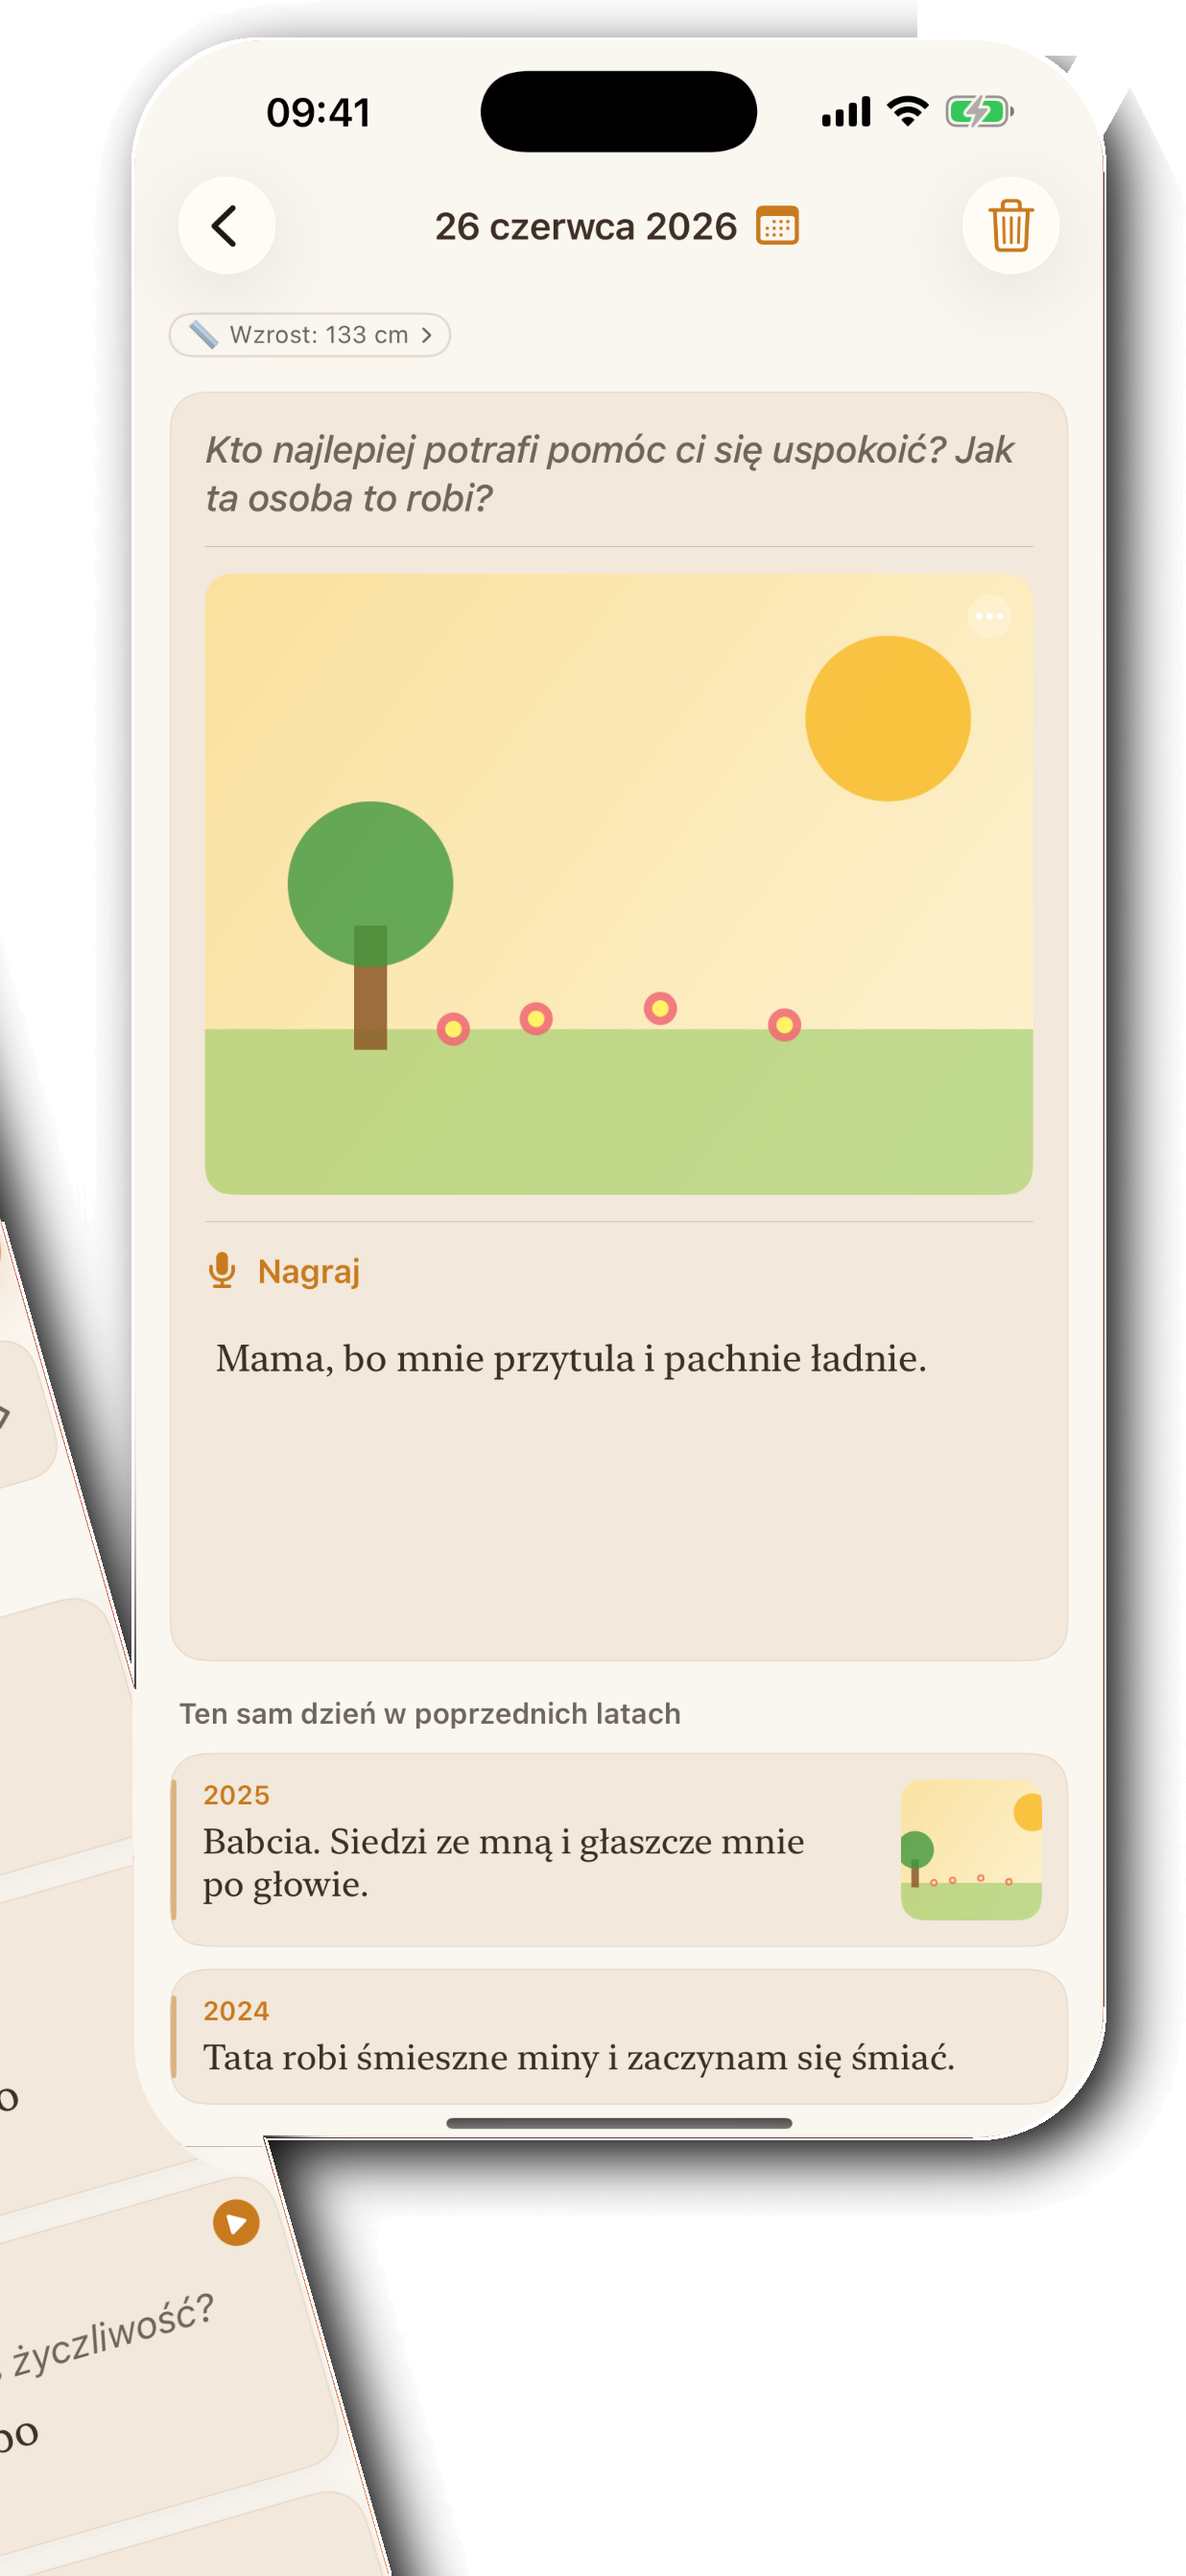
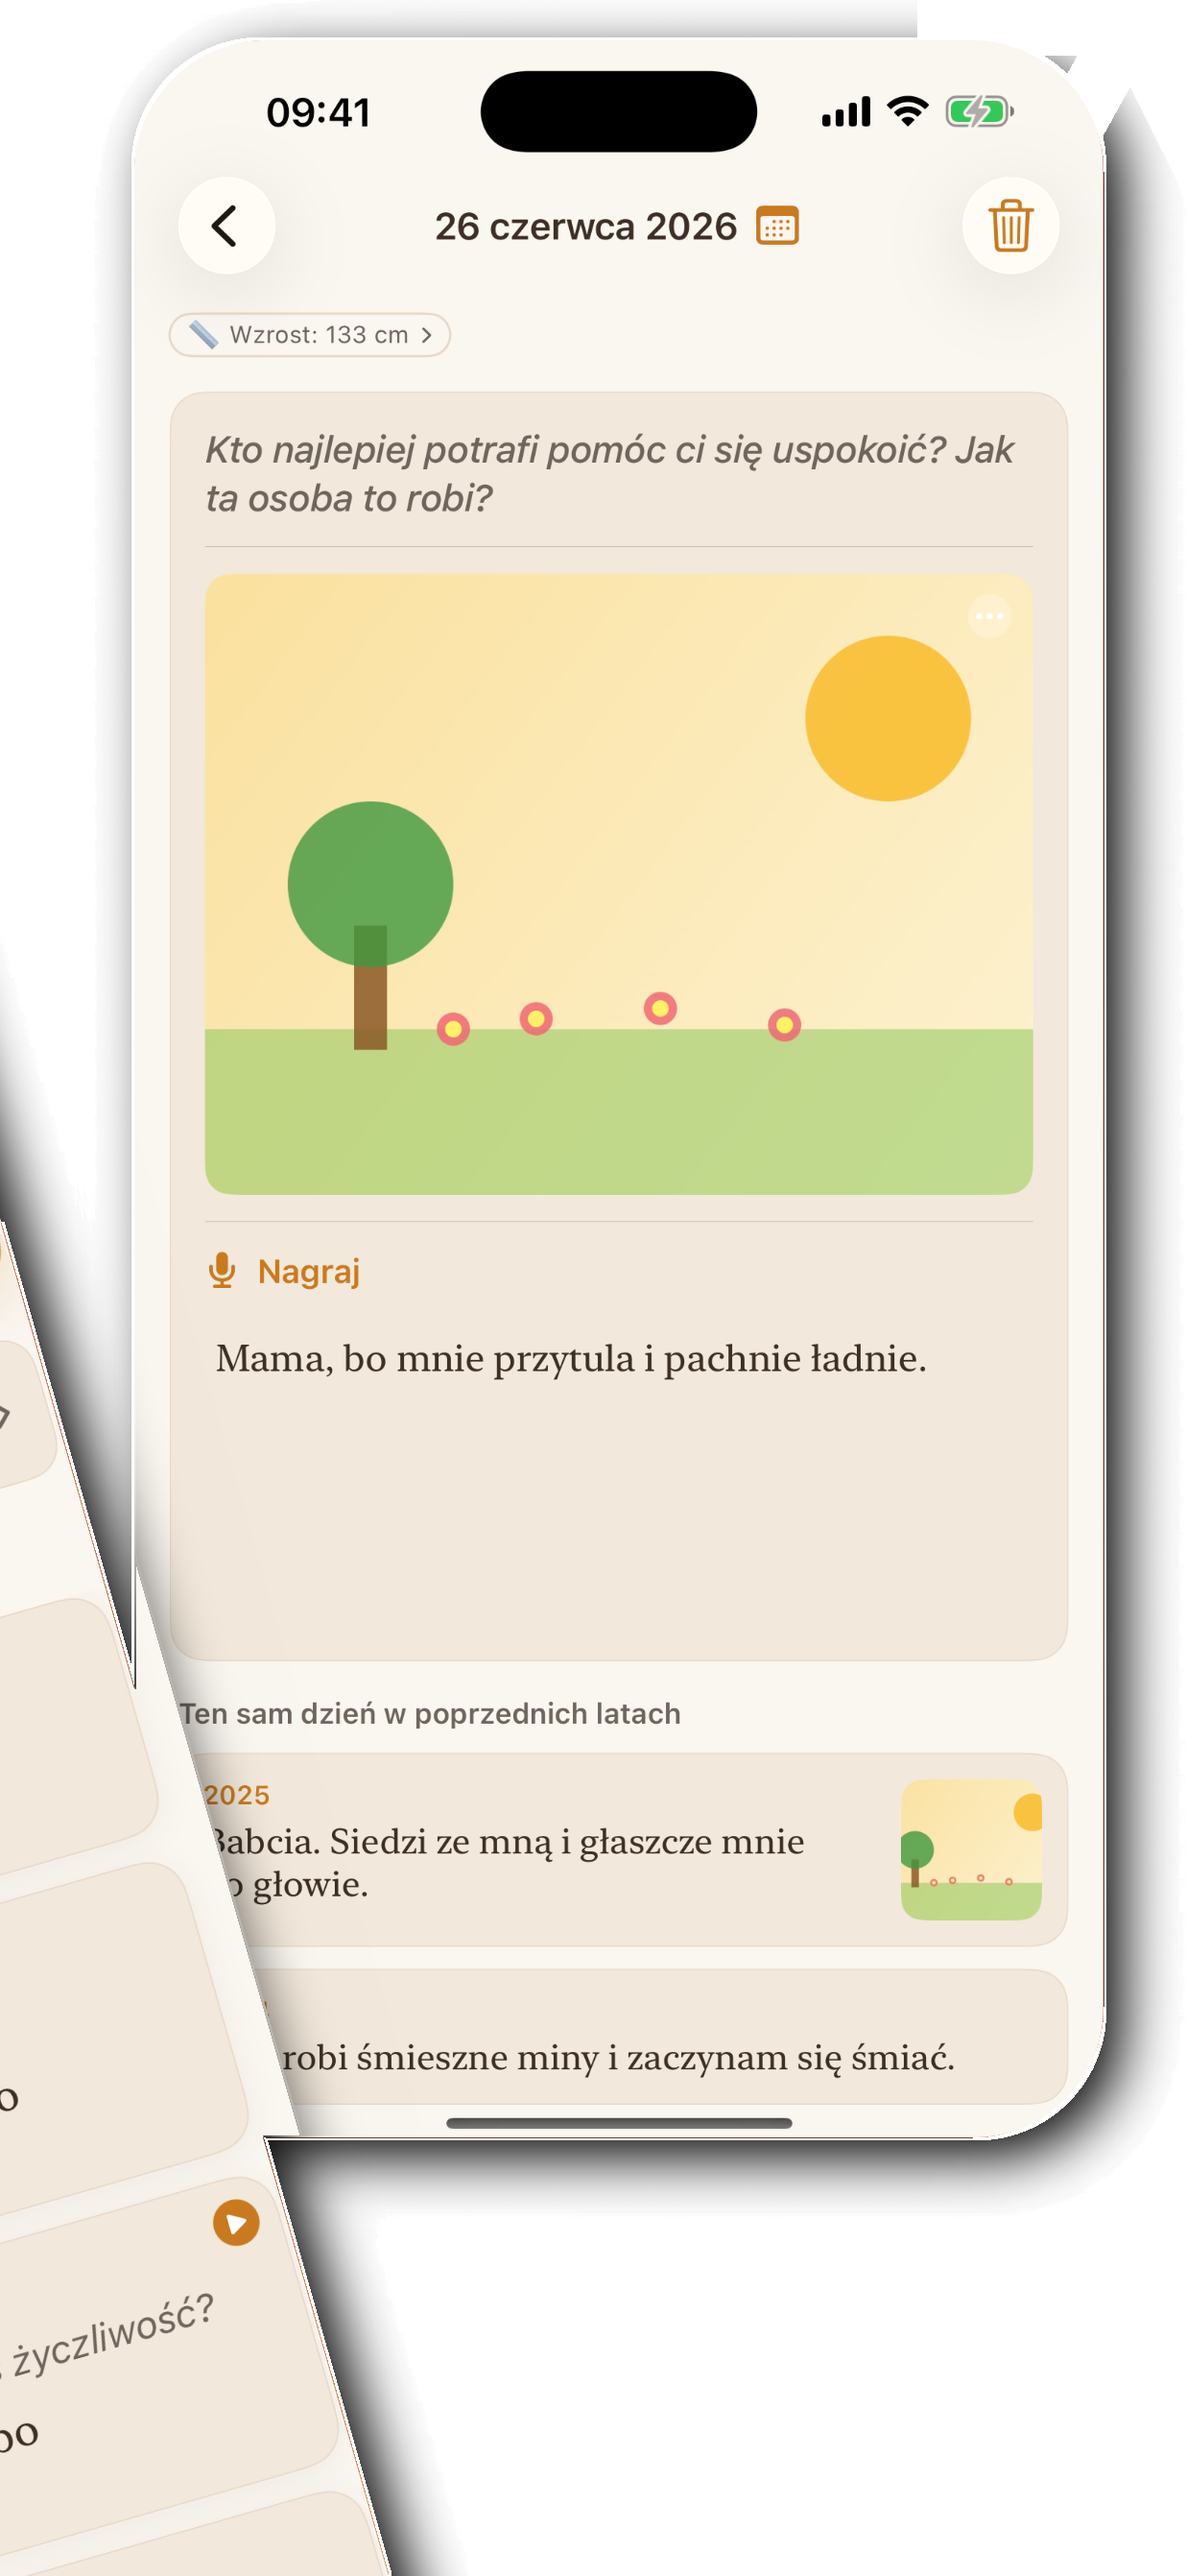
Page 2: put page 1's tilted phone back in front of the day-page phone
As on the 1.0 page, the tilted phone that runs over from page 1 overlaps the
front phone and casts a soft shadow on it. build_phones.py now draws it that
way; the page 2 layers and images are rebuilt.

Claude-Session: https://claude.ai/code/session_01RysN6u6ztiAhNhJ4pBs71C

Changed region(s): [[0.0922, 0.5566, 0.2767, 0.8349]]

diff --git a/design/screenshots-1.1/build_phones.py b/design/screenshots-1.1/build_phones.py
@@ -1,8 +1,8 @@
 """Rebuild the phone layers in design/canva-layers/ from new simulator screenshots.
 
 Each phone layer keeps its original shape, rim and shadow; only the screen inside is
-replaced. Page 1's phone is rotated -16 degrees and continues onto page 2 behind the
-front phone, so both are drawn from the same geometry.
+replaced. Page 1's phone is rotated -16 degrees and continues onto page 2 in front of the
+front phone (casting a shadow on it), so both are drawn from the same geometry.
 
 Usage: python3 build_phones.py <screens dir> <out dir>
 The screens dir holds <lang>_<n>_*.png from an iPhone 17 Pro Max (1320 x 2868, 440 pt).
@@ -132,12 +132,26 @@ def build(lang, shots, out_dir):
             content = warp(shot, (x0, y0), (1, 0), (0, 1), pw, (w, h))
             r = int(round(pw * 0.135))
             front = rounded_mask((h, w), x0, y0, x1, max(y1, y0 + int(pw * 2.2)), r)
-            out = compose(layer, content, front, edges)
             if page == 2:
+                # page 1's tilted phone lies on top of the front phone here
                 back_shot = shots[PAGES[1]]
+                sh, sw = back_shot.shape[:2]
                 o = tl - np.array([page_w + p["left"], p["top"]])
                 back = warp(back_shot, o, ex, ey, width, (w, h))
-                out = compose(out, back, 255 - cv2.dilate(front, np.ones((5, 5), np.uint8)), edges)
+                body = np.zeros((sh, sw, 4), np.uint8)
+                body[..., 3] = rounded_mask((sh, sw), 0, 0, sw - 1, sh - 1, int(round(sw * 0.135)))
+                tilted = warp(body, o, ex, ey, width, (w, h))[..., 3]
+                # its soft shadow falls on the front screen, down and to the right
+                shadow = np.zeros_like(tilted)
+                shadow[18:, 10:] = tilted[:-18, :-10]
+                shadow = cv2.GaussianBlur(shadow.astype(np.float32) / 255, (0, 0), 26)
+                content = content.copy()
+                content[..., :3] = (content[..., :3] * (1 - 0.55 * shadow)[..., None]).astype(np.uint8)
+                front = cv2.min(front, 255 - cv2.dilate(tilted, np.ones((5, 5), np.uint8)))
+                out = compose(layer, content, front, edges)
+                out = compose(out, back, tilted, edges)
+            else:
+                out = compose(layer, content, front, edges)
         cv2.imwrite(os.path.join(out_dir, name), out)
         print("wrote", name)
 
